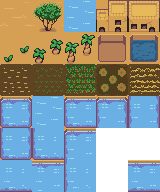
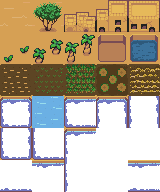
add frame building

diff --git a/js/GameScene.js b/js/GameScene.js
@@ -2,7 +2,7 @@ class GameScene extends Phaser.Scene {
   constructor() { super({ key: 'GameScene' }); }
 
   preload() {
-    this.load.spritesheet('tiles', 'art/tiles.png?v7', { frameWidth: 32, frameHeight: 32 });
+    this.load.spritesheet('tiles', 'art/tiles.png?v8', { frameWidth: 32, frameHeight: 32 });
     this.load.audio('sfx-wind', 'sfx/sfx-wind.mp3');
     this.load.bitmapFont('pixel', 'font/FreePixel-16.png', 'font/FreePixel-16.xml?v1');
   }
@@ -452,9 +452,13 @@ class GameScene extends Phaser.Scene {
     td.building = 'hut';
     td.biome = GameState.TILE_BUILDING;
     const pending = this._pendingBuild || { gid: Math.random() < 0.5 ? 4 : 5, flipX: Math.random() < 0.5 };
-    const buildTile = this.biomeLayer.putTileAt(pending.gid, c.x, c.y);
+    const buildTile = this.biomeLayer.putTileAt(3, c.x, c.y); // gid 3 = under construction
     if (buildTile) buildTile.flipX = pending.flipX;
     this._pendingBuild = null;
+    this.time.delayedCall(2000, () => {
+      const finalTile = this.biomeLayer.putTileAt(pending.gid, c.x, c.y);
+      if (finalTile) finalTile.flipX = pending.flipX;
+    });
     GameState.changeWaterHidden(-1);
     GameState.changeLandHealth(-2);
     const firstBuilding = this.buildingCells.length === 0;

diff --git a/js/UIScene.js b/js/UIScene.js
@@ -9,7 +9,7 @@ class UIScene extends Phaser.Scene {
     this.load.audio('sfx-warning',      'sfx/sfx-warning.mp3');
     this.load.audio('sfx-congrats',     'sfx/sfx-congrats.mp3');
     this.load.bitmapFont('pixel', 'font/FreePixel-16.png', 'font/FreePixel-16.xml?v1');
-    this.load.spritesheet('tiles', 'art/tiles.png?v7', { frameWidth: 32, frameHeight: 32 });
+    this.load.spritesheet('tiles', 'art/tiles.png?v8', { frameWidth: 32, frameHeight: 32 });
   }
 
   create() {
